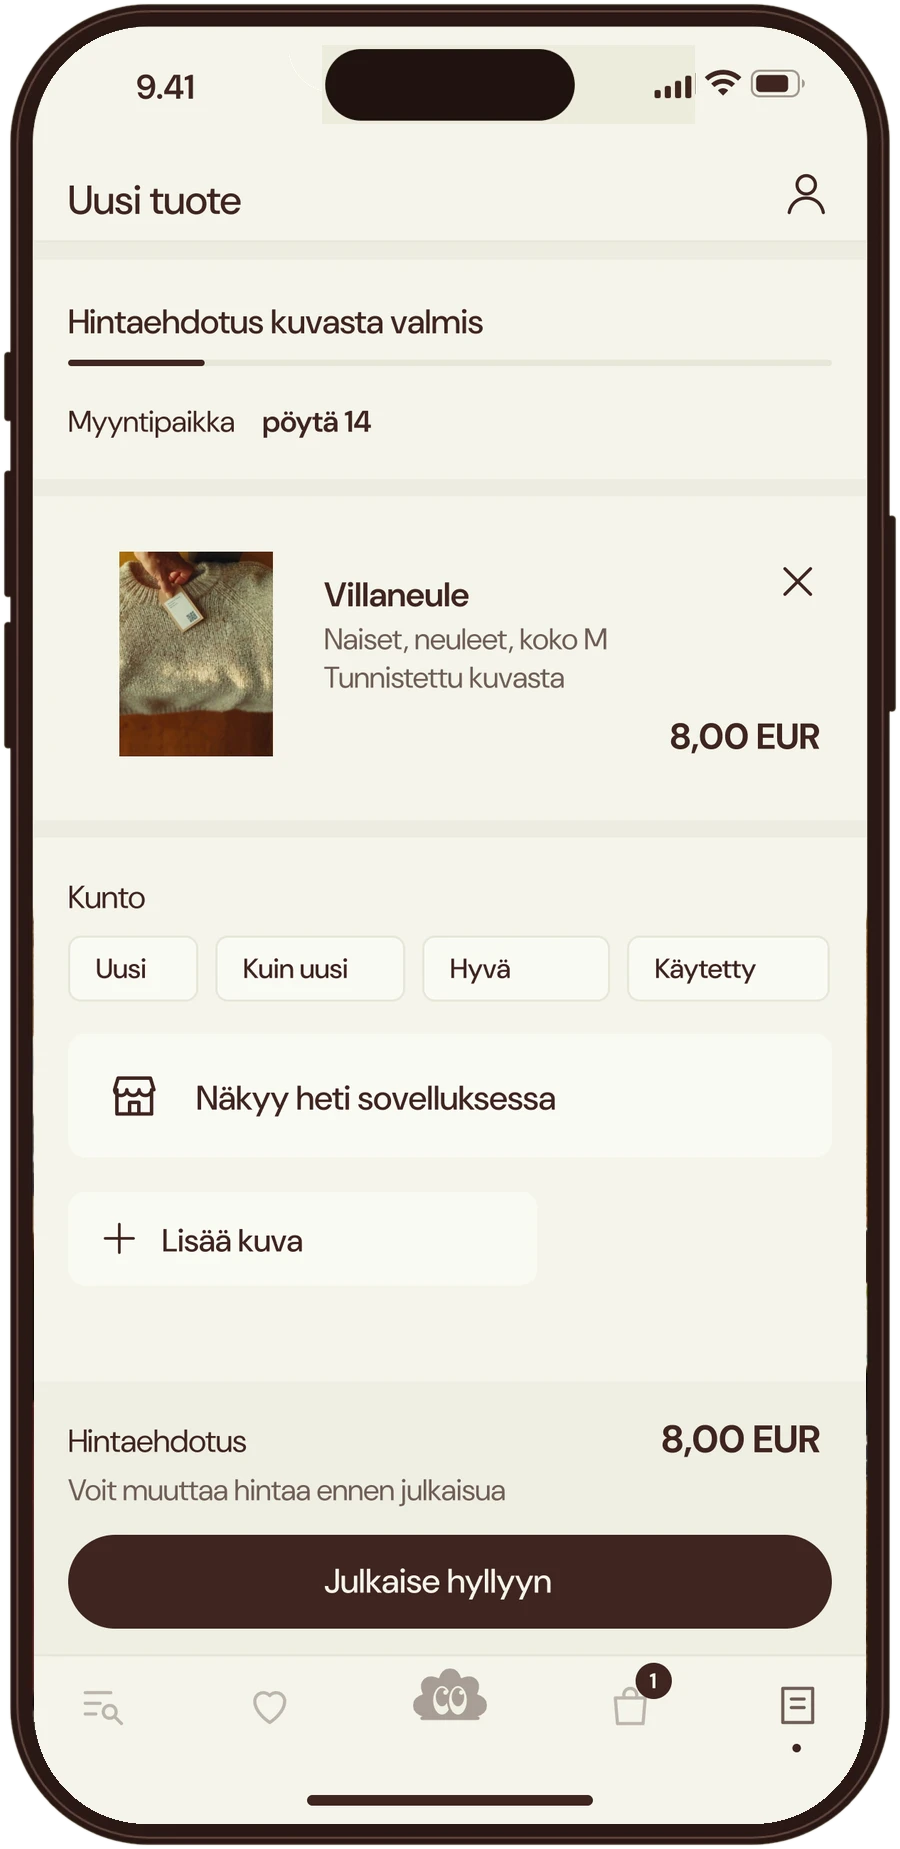
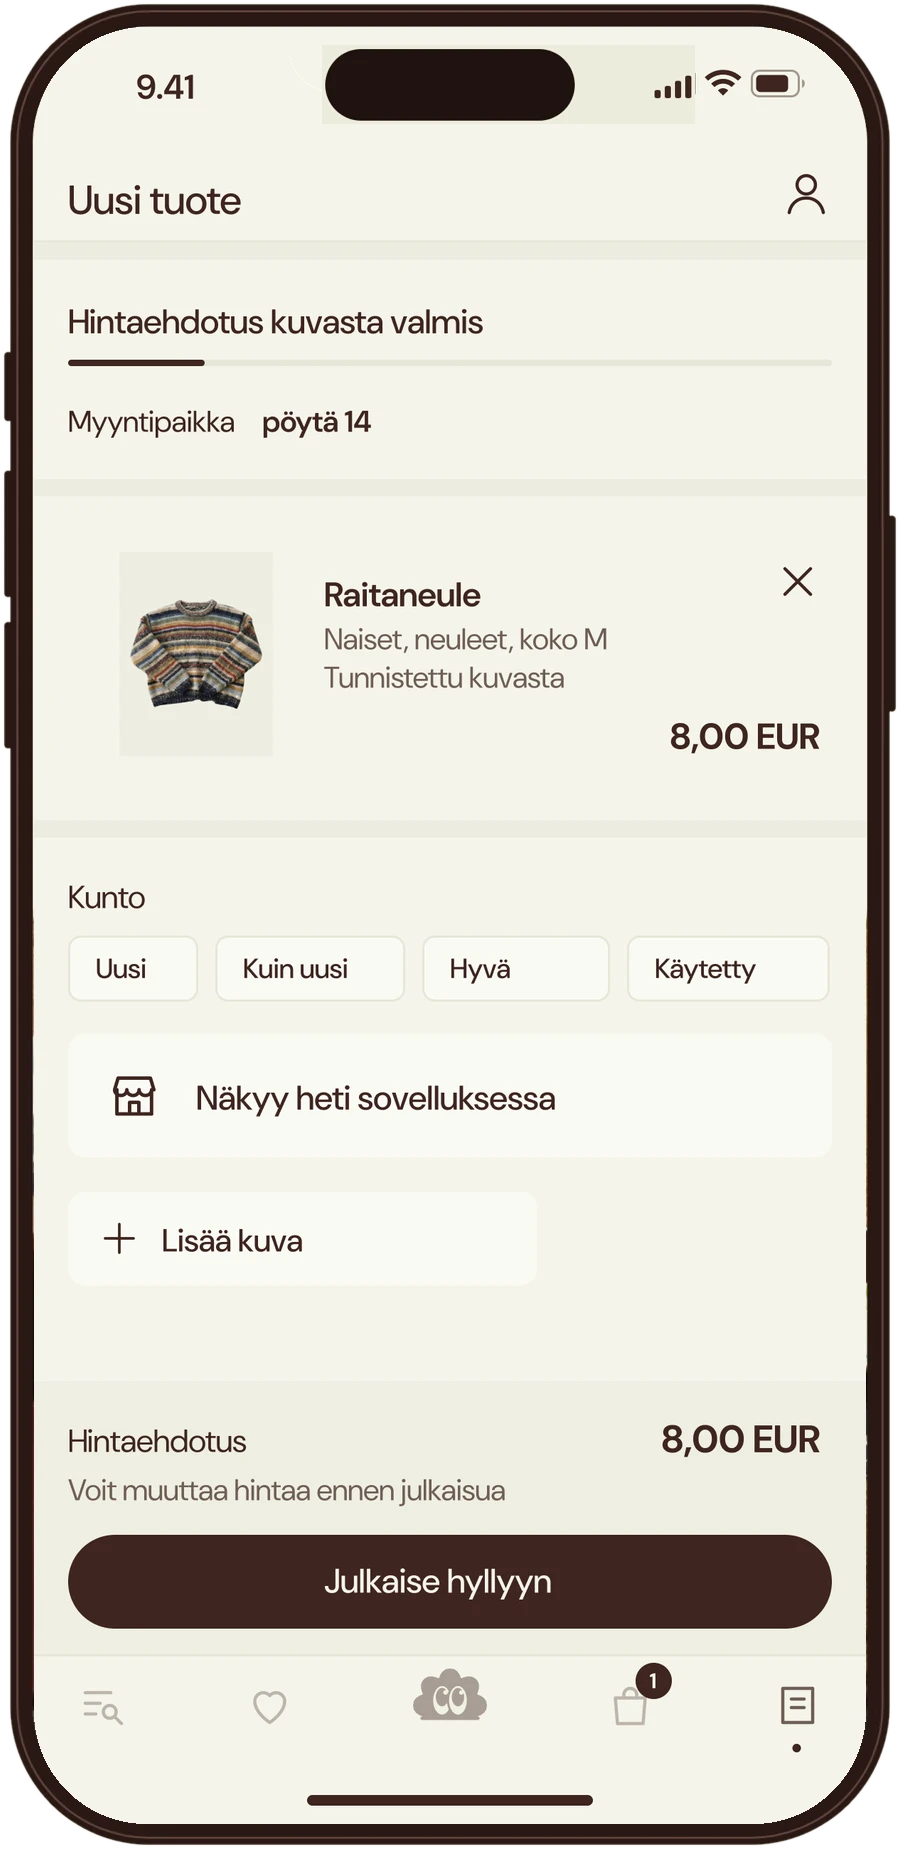
Kassaosion tuote-mockup: raitaneule tuotekuvana
Claude-Session: https://claude.ai/code/session_01GFdz25Fi6pJjPfxnwAUcJW

Changed region(s): [[0.1244, 0.2774, 0.3111, 0.4316], [0.3422, 0.3083, 0.5289, 0.3391]]

diff --git a/resella.html b/resella.html
@@ -1308,7 +1308,7 @@ section.fd{background:var(--blue)}
   /* kolme teemaa vaihtuvat: maksu, tuotteiden lisäys, oman pöydän hallinta */
   var D=[
    {a:['+20,00 €','Myyjälle tilille, villapaita pöydästä 14'],b:['Omistajalle','Provisio','Myynti kasvaa','Provisio kirjautuu jokaisesta piippauksesta'],c:['Ostoskori','Pöytä 14',[['Villapaita','12,00 €'],['Nahkatakki','35,00 €'],['Lastenkirja','4,00 €']],'Yhteensä','51,00 €']},
-   {a:['8,00 €','Hintaehdotus kuvasta, villaneule'],b:['Myyjälle','Kuvasta','Tuote verkkoon','Hinnoiteltu tuote näkyy heti sovelluksessa'],c:['Lisätyt tänään','Pöytä 14',[['Villapaita','12,00 €'],['Nahkatakki','35,00 €'],['Lastenkirja','4,00 €']],'Tuotteita','3 kpl']},
+   {a:['8,00 €','Hintaehdotus kuvasta, raitaneule'],b:['Myyjälle','Kuvasta','Tuote verkkoon','Hinnoiteltu tuote näkyy heti sovelluksessa'],c:['Lisätyt tänään','Pöytä 14',[['Villapaita','12,00 €'],['Nahkatakki','35,00 €'],['Lastenkirja','4,00 €']],'Tuotteita','3 kpl']},
    {a:['+51,00 €','Pöytä 14 myi tänään 3 tuotetta'],b:['Myyjälle','Tilitys','Oma pöytä hallussa','Myynnit ja tilitys yhdestä paikasta'],c:['Pöytä 14','Tänään',[['Myyty','3 kpl'],['Hyllyssä','12 kpl'],['Varaus voimassa','30.11.']],'Myynti','51,00 €']}];
   var q=function(s){return st.querySelector(s);}, imgs=st.querySelectorAll('.bk-img img'), phs=st.querySelectorAll('.bk-phone img'), dots=st.querySelectorAll('.ch-dots i'), cur=0, timer=null, seen=false, vis=false;
   var red=false; try{ red=matchMedia('(prefers-reduced-motion:reduce)').matches; }catch(e){}
